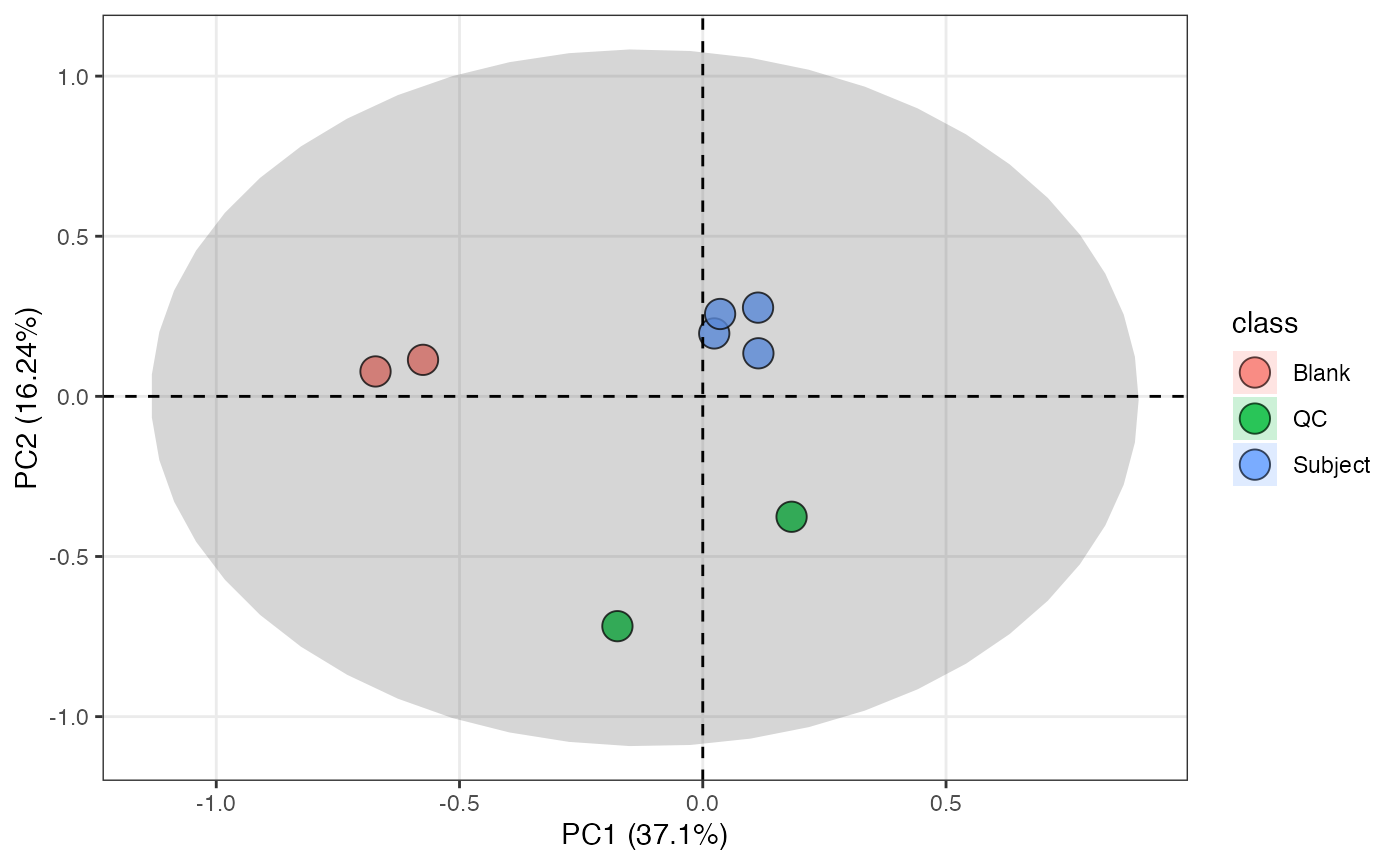
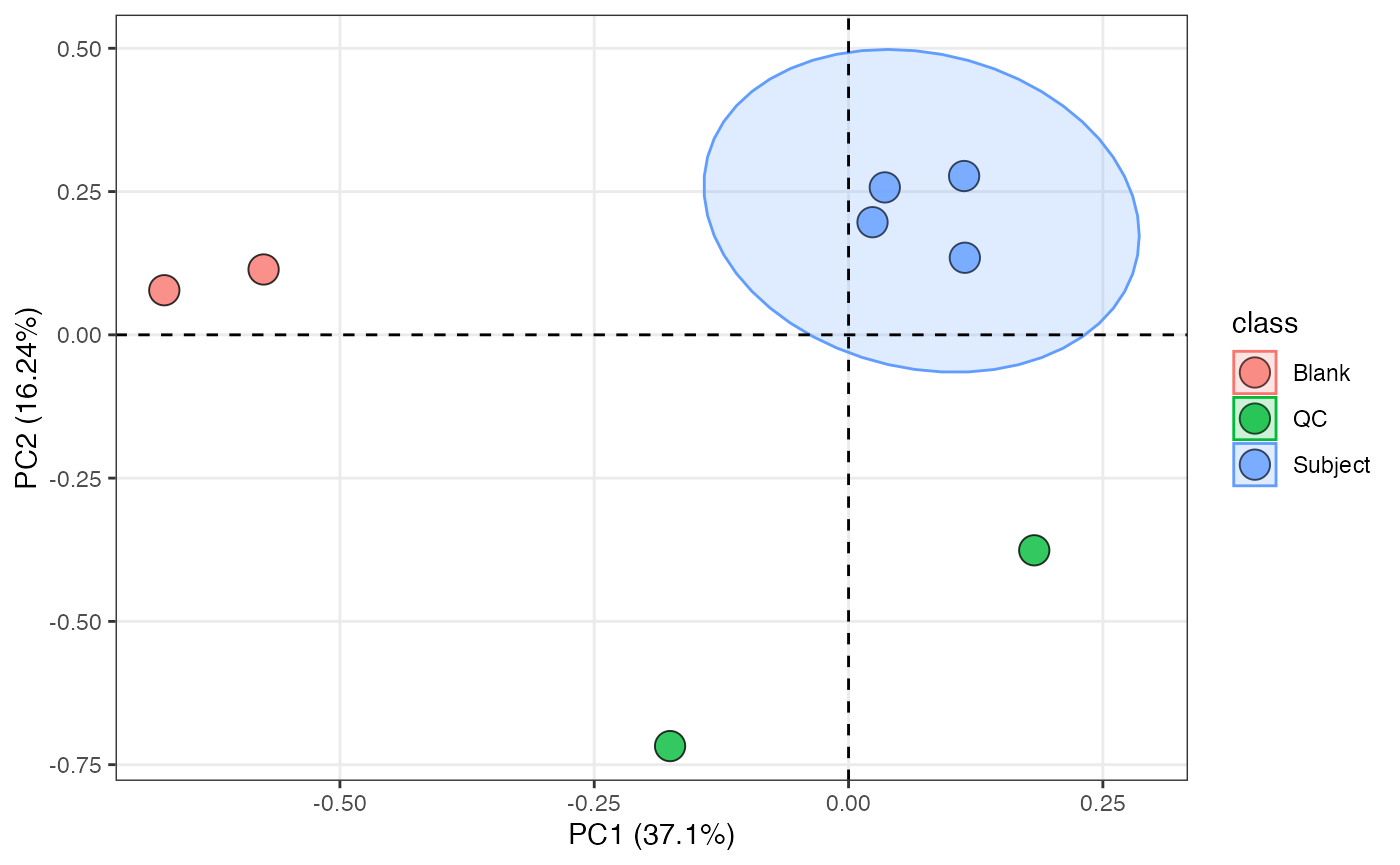
fix bug in pca

diff --git a/docs/reference/massqc_report.html b/docs/reference/massqc_report.html
@@ -215,6 +215,26 @@
     <p>Xiaotao Shen
 <a href='mailto:shenxt1990@163.com'>shenxt1990@163.com</a></p>
 
+    <h2 class="hasAnchor" id="examples"><a class="anchor" href="#examples"></a>Examples</h2>
+    <pre class="examples"><span class='r-in'><span class='kw'>if</span> <span class='op'>(</span><span class='cn'>FALSE</span><span class='op'>)</span> <span class='op'>{</span></span>
+<span class='r-in'><span class='kw'><a href='https://rdrr.io/r/base/library.html'>library</a></span><span class='op'>(</span><span class='va'><a href='https://github.com/tidymass/massdataset'>massdataset</a></span><span class='op'>)</span></span>
+<span class='r-in'><span class='fu'><a href='https://rdrr.io/r/utils/data.html'>data</a></span><span class='op'>(</span><span class='st'>"expression_data"</span><span class='op'>)</span></span>
+<span class='r-in'><span class='fu'><a href='https://rdrr.io/r/utils/data.html'>data</a></span><span class='op'>(</span><span class='st'>"sample_info"</span><span class='op'>)</span></span>
+<span class='r-in'><span class='fu'><a href='https://rdrr.io/r/utils/data.html'>data</a></span><span class='op'>(</span><span class='st'>"sample_info_note"</span><span class='op'>)</span></span>
+<span class='r-in'><span class='fu'><a href='https://rdrr.io/r/utils/data.html'>data</a></span><span class='op'>(</span><span class='st'>"variable_info"</span><span class='op'>)</span></span>
+<span class='r-in'><span class='fu'><a href='https://rdrr.io/r/utils/data.html'>data</a></span><span class='op'>(</span><span class='st'>"variable_info_note"</span><span class='op'>)</span></span>
+<span class='r-in'><span class='va'>object</span> <span class='op'>=</span></span>
+<span class='r-in'>  <span class='fu'><a href='https://rdrr.io/pkg/massdataset/man/create_mass_dataset.html'>create_mass_dataset</a></span><span class='op'>(</span></span>
+<span class='r-in'>    expression_data <span class='op'>=</span> <span class='va'>expression_data</span>,</span>
+<span class='r-in'>    sample_info <span class='op'>=</span> <span class='va'>sample_info</span>,</span>
+<span class='r-in'>    variable_info <span class='op'>=</span> <span class='va'>variable_info</span>,</span>
+<span class='r-in'>    sample_info_note <span class='op'>=</span> <span class='va'>sample_info_note</span>,</span>
+<span class='r-in'>    variable_info_note <span class='op'>=</span> <span class='va'>variable_info_note</span></span>
+<span class='r-in'>  <span class='op'>)</span></span>
+<span class='r-in'><span class='va'>object</span></span>
+<span class='r-in'><span class='fu'>massqc_report</span><span class='op'>(</span><span class='va'>object</span>, path <span class='op'>=</span> <span class='st'>"demo_data"</span><span class='op'>)</span></span>
+<span class='r-in'><span class='op'>}</span></span>
+</pre>
   </div>
   <div class="col-md-3 hidden-xs hidden-sm" id="pkgdown-sidebar">
     <nav id="toc" data-toggle="toc" class="sticky-top">

diff --git a/docs/reference/massqc_pca.html b/docs/reference/massqc_pca.html
@@ -253,12 +253,16 @@
 <span class='r-in'>  <span class='fu'>massqc_pca</span><span class='op'>(</span><span class='op'>)</span></span>
 <span class='r-wrn co'><span class='r-pr'>#&gt;</span> <span class='warning'>Warning: </span>MVs in you object,</span>
 <span class='r-wrn co'><span class='r-pr'>#&gt;</span> will remove variables &gt; 50% and imputate with zero.</span>
+<span class='r-wrn co'><span class='r-pr'>#&gt;</span> <span class='warning'>Warning: </span>no scale for this dataset, try to scale() before pca.</span>
 <span class='r-plt img'><img src='massqc_pca-1.png' alt='' width='700' height='433' /></span>
 <span class='r-in'></span>
 <span class='r-in'><span class='va'>object</span> <span class='op'><a href='https://magrittr.tidyverse.org/reference/pipe.html'>%&gt;%</a></span></span>
 <span class='r-in'>  <span class='fu'>massqc_pca</span><span class='op'>(</span>color_by <span class='op'>=</span> <span class='st'>"class"</span><span class='op'>)</span></span>
 <span class='r-wrn co'><span class='r-pr'>#&gt;</span> <span class='warning'>Warning: </span>MVs in you object,</span>
 <span class='r-wrn co'><span class='r-pr'>#&gt;</span> will remove variables &gt; 50% and imputate with zero.</span>
+<span class='r-wrn co'><span class='r-pr'>#&gt;</span> <span class='warning'>Warning: </span>no scale for this dataset, try to scale() before pca.</span>
+<span class='r-msg co'><span class='r-pr'>#&gt;</span> Too few points to calculate an ellipse</span>
+<span class='r-msg co'><span class='r-pr'>#&gt;</span> Too few points to calculate an ellipse</span>
 <span class='r-plt img'><img src='massqc_pca-2.png' alt='' width='700' height='433' /></span>
 <span class='r-in'></span>
 <span class='r-in'><span class='va'>object</span> <span class='op'><a href='https://magrittr.tidyverse.org/reference/pipe.html'>%&gt;%</a></span></span>
@@ -266,6 +270,8 @@
 <span class='r-in'>  <span class='fu'>massqc_pca</span><span class='op'>(</span>color_by <span class='op'>=</span> <span class='st'>"class"</span><span class='op'>)</span></span>
 <span class='r-wrn co'><span class='r-pr'>#&gt;</span> <span class='warning'>Warning: </span>MVs in you object,</span>
 <span class='r-wrn co'><span class='r-pr'>#&gt;</span> will remove variables &gt; 50% and imputate with zero.</span>
+<span class='r-msg co'><span class='r-pr'>#&gt;</span> Too few points to calculate an ellipse</span>
+<span class='r-msg co'><span class='r-pr'>#&gt;</span> Too few points to calculate an ellipse</span>
 <span class='r-plt img'><img src='massqc_pca-3.png' alt='' width='700' height='433' /></span>
 <span class='r-in'></span>
 <span class='r-in'><span class='va'>object</span> <span class='op'><a href='https://magrittr.tidyverse.org/reference/pipe.html'>%&gt;%</a></span></span>

diff --git a/docs/articles/massqc_pca.html b/docs/articles/massqc_pca.html
@@ -132,7 +132,7 @@
       <h1 data-toc-skip>PCA analysis shows the quality</h1>
                         <h4 class="author">Xiaotao Shen (<a href="https://www.shenxt.info/" class="uri">https://www.shenxt.info/</a>)</h4>
                         
-            <h4 class="date">Created on 2021-12-04 and updated on 2021-12-18</h4>
+            <h4 class="date">Created on 2021-12-04 and updated on 2021-12-20</h4>
       
       <small class="dont-index">Source: <a href="https://github.com/tidymass/massqc/blob/master/vignettes/massqc_pca.Rmd"><code>vignettes/massqc_pca.Rmd</code></a></small>
       <div class="hidden name"><code>massqc_pca.Rmd</code></div>

diff --git a/docs/articles/example.html b/docs/articles/example.html
@@ -132,7 +132,7 @@
       <h1 data-toc-skip>Example</h1>
                         <h4 class="author">Xiaotao Shen (<a href="https://www.shenxt.info/" class="uri">https://www.shenxt.info/</a>)</h4>
                         
-            <h4 class="date">Created on 2021-12-04 and updated on 2021-12-18</h4>
+            <h4 class="date">Created on 2021-12-04 and updated on 2021-12-20</h4>
       
       <small class="dont-index">Source: <a href="https://github.com/tidymass/massqc/blob/master/vignettes/example.Rmd"><code>vignettes/example.Rmd</code></a></small>
       <div class="hidden name"><code>example.Rmd</code></div>

diff --git a/docs/articles/contact_us.html b/docs/articles/contact_us.html
@@ -134,7 +134,7 @@
     <div class="page-header toc-ignore">
       <h1 data-toc-skip>Contact us</h1>
             
-            <h4 class="date">Created on 2020-03-28 and updated on 2021-12-18</h4>
+            <h4 class="date">Created on 2020-03-28 and updated on 2021-12-20</h4>
       
       <small class="dont-index">Source: <a href="https://github.com/tidymass/massqc/blob/master/vignettes/contact_us.Rmd"><code>vignettes/contact_us.Rmd</code></a></small>
       <div class="hidden name"><code>contact_us.Rmd</code></div>
